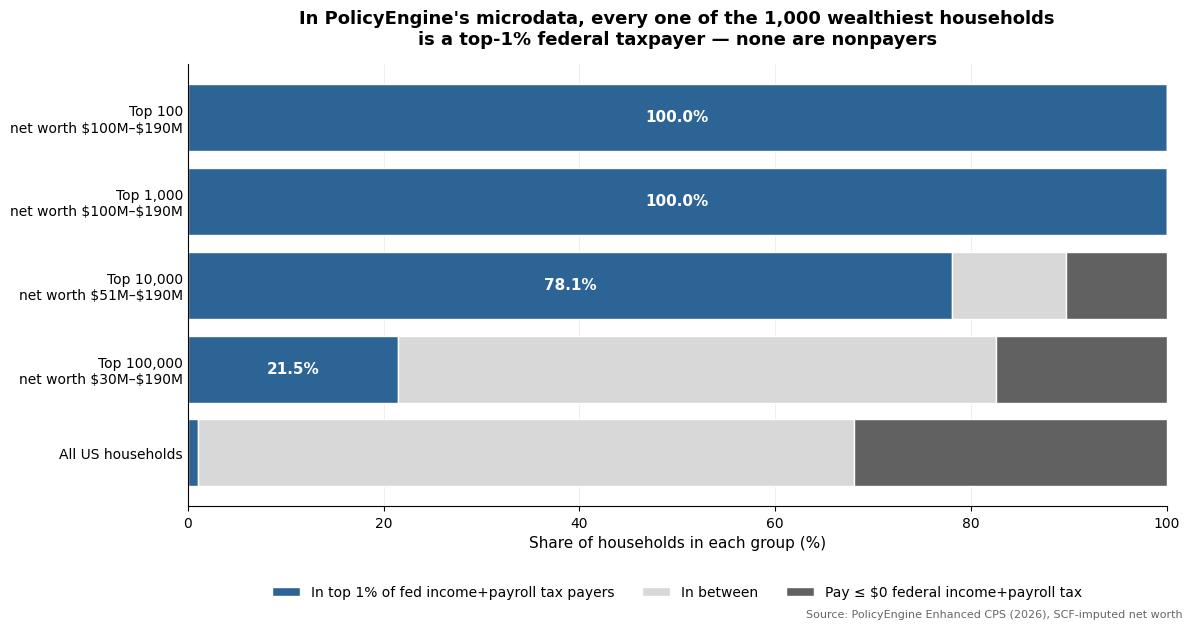
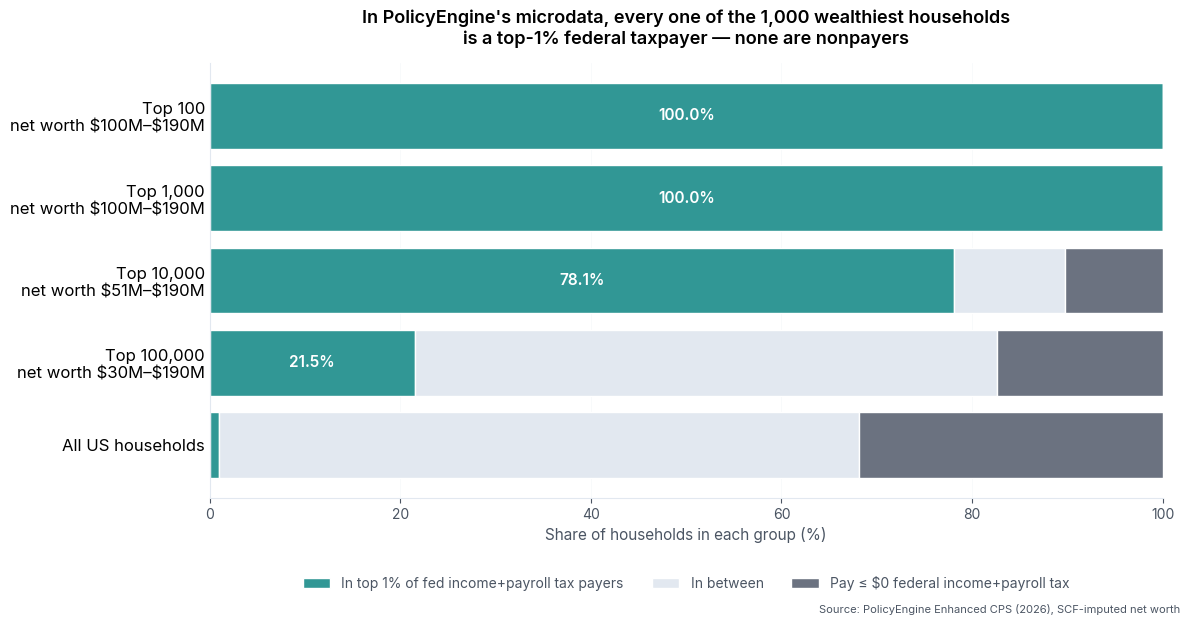
Madoff post: tighten tone, add record counts, use PolicyEngine tokens (#41)
* Madoff post: tighten tone, add record counts, use PolicyEngine tokens

- Rewrite in direct style: drop rhetorical commentary and unbacked modifiers
- Add record-count column to the microdata table; top 100 and top 1,000
  are backed by only 2 underlying records (Enhanced CPS caps at $190M)
- Explain ProPublica's "true tax rate" method (tax / change in net worth)
- Chart: teal chart-1 (#319795), gray-200 border, gray-500 chart-5, Inter
- Link to reproducibility gist

* Madoff post: add Saez-Zucman, Splinter, OMB/CEA, ProPublica follow-ups

Expands 'What the claim should be' into three denominators and cites the
main academic/official estimates: ProPublica 3.4%, OMB/CEA 8.2%, and
Saez-Zucman 24% vs Splinter 38%. Adds links to the Secret IRS Files
series and ProPublica's top-400 interactive table.

* Madoff post: add person-year estimate, tighten tone further

Adds a Claude-estimated person-year zero rate (~5-10%) for the top 100
wealthiest, contrasted with the ~40% population-wide nonpayer rate. Flags
explicitly where the number comes from a Claude estimate vs. public data.

---------

diff --git a/src/content/blog/madoff-billionaire-nonpayers.md b/src/content/blog/madoff-billionaire-nonpayers.md
@@ -1,46 +1,62 @@
 ---
 title: "Billionaires aren't 'just as likely' to be nonpayers as top taxpayers"
-description: "Ray Madoff's memorable line on The Ezra Klein Show overstates what ProPublica actually found."
+description: "Checking Ray Madoff's claim on The Ezra Klein Show against ProPublica, PolicyEngine microdata, and some back-of-envelope estimates."
 pubDate: 'Apr 20 2026'
 heroImage: './madoff-billionaire-nonpayers.png'
 ---
 
-On this week's [Ezra Klein Show](https://www.nytimes.com/2026/04/17/opinion/ezra-klein-podcast-ray-madoff.html), Boston College tax law professor Ray Madoff landed a memorable line:
+On this week's [Ezra Klein Show](https://www.nytimes.com/2026/04/17/opinion/ezra-klein-podcast-ray-madoff.html), Boston College tax law professor Ray Madoff said:
 
 > When it comes to the wealthiest Americans — Zuckerberg, Bezos, Musk, Larry Ellison, all the people we hear about so often — they are just as likely to be in the 40 percent of nonpayers as they are in the top 1 percent of payers.
 
-It's a great rhetorical move. But it doesn't match the evidence.
+The data doesn't support this.
 
-The "40 percent of nonpayers" are households with $0 federal income tax liability. The top 1 percent of payers (TY2022) starts at about $663,000 in adjusted gross income, per the [IRS via Tax Foundation](https://taxfoundation.org/data/all/federal/latest-federal-income-tax-data-2025/). Whenever a centibillionaire sells stock, exercises options, or receives dividends, they clear that threshold by three or four orders of magnitude.
+The "40 percent of nonpayers" are households with $0 federal income tax liability. The top 1 percent of payers (TY2022) starts at $663,164 in adjusted gross income, per [IRS data via Tax Foundation](https://taxfoundation.org/data/all/federal/latest-federal-income-tax-data-2025/). When a centibillionaire sells stock, exercises options, or receives dividends, they clear that threshold by three to four orders of magnitude.
 
-Here's what [ProPublica's 2021 investigation](https://www.propublica.org/article/the-secret-irs-files-trove-of-never-before-seen-records-reveal-how-the-wealthiest-avoid-income-tax) actually documented for the four people Madoff named:
+## What ProPublica actually documented
 
-- **Jeff Bezos** paid $0 in 2007 and 2011. Over the 2014–2018 window ProPublica analyzed, he paid $973 million. Since 2020 he has sold $8–10 billion of Amazon stock annually.
-- **Elon Musk** paid $0 in 2018 — then roughly [$11 billion](https://www.cnn.com/2021/12/29/investing/elon-musk-tesla-stock-sales/index.html) in 2021 when he exercised expiring Tesla options, reportedly the largest personal federal income tax bill ever paid.
-- **Mark Zuckerberg**: no zero-tax years surfaced in the leak. His 10b5-1 stock sales produce hundreds of millions in taxable gains most years.
-- **Larry Ellison**: no zero-tax years surfaced either. Oracle pays a dividend, which forces annual taxable income whether he wants it or not.
+[ProPublica's 2021 investigation](https://www.propublica.org/article/the-secret-irs-files-trove-of-never-before-seen-records-reveal-how-the-wealthiest-avoid-income-tax) covered 2014–2018 for the top 25 billionaires. Per-person figures for the four people Madoff named:
 
-So these four are overwhelmingly in the top 1 percent of payers, not the 40 percent of nonpayers. Bezos and Musk each have one or two documented zero years over more than a decade; Zuckerberg and Ellison have none in the public record.
+- **Jeff Bezos** paid $0 in 2007 and 2011, $973 million over 2014–2018. Since 2020 he has sold $8–10 billion of Amazon stock per year.
+- **Elon Musk** paid $0 in 2018 and [$11 billion](https://www.cnn.com/2021/12/29/investing/elon-musk-tesla-stock-sales/index.html) in 2021 when he exercised expiring Tesla options.
+- **Mark Zuckerberg**: no zero-tax years in the leak. His 10b5-1 sales produce hundreds of millions in taxable gains per year.
+- **Larry Ellison**: no zero-tax years in the leak. Oracle's dividend produces taxable income each year.
+
+Two of the four have documented zero years; two have none. In the years with zero liability, income was offset by losses, interest expense, or charitable deductions — not persistent non-filing.
+
+ProPublica also disclosed $0 years for Carl Icahn (2016, 2017 — interest-expense offsets) and George Soros (2016–2018 — fund losses). Both had nine- and ten-figure taxable years in other periods.
+
+**Person-year zero rate — a rough estimate.** I asked Claude to estimate what share of person-years would show $0 federal income tax for the top 100 wealthiest over the past decade. Starting from the ProPublica disclosures (roughly 10–20 documented zero years across 25 people × 12 disclosed years ≈ 5% of person-years), then weighting the less-famous half of the Forbes 400 more heavily (more Icahn/Soros-style loss or deduction years), the estimate comes in around **5–10%**.
+
+The baseline that Madoff's "40% of nonpayers" describes is a different population: retirees, students, and low earners who owe nothing year after year. The wealthy zero years are episodic — a wealthy person with a 10% per-year probability of a zero tax year is not in the same group as a retired household that owes $0 every year.
 
 ## What the microdata says
 
-I also checked this against [PolicyEngine's Enhanced CPS](https://policyengine.github.io/policyengine-us/), which imputes household net worth from the Federal Reserve's Survey of Consumer Finances. Taking the wealthiest households in the 2026 microdata and comparing their federal income+payroll tax against the weighted 99th percentile of all households ($213,112):
+[PolicyEngine's Enhanced CPS](https://policyengine.github.io/policyengine-us/) imputes household net worth from the Federal Reserve's Survey of Consumer Finances. Against the 2026 microdata, the 99th percentile of federal income+payroll tax at the household level is $213,112 (script: [gist](https://gist.github.com/MaxGhenis/3f10cc98b643e0a76e74eae9afe35082)):
 
-| Wealthiest N households | Net-worth range | Share in top 1% of fed-tax payers | Share paying ≤ $0 |
-|---|---|---|---|
-| Top 100 | $100M – $190M | **100.0%** | 0.0% |
-| Top 1,000 | $100M – $190M | **100.0%** | 0.0% |
-| Top 10,000 | $51M – $190M | 78.1% | 10.3% |
-| Top 100,000 | $30M – $190M | 21.5% | 17.4% |
+| Wealthiest N households | Records | Net-worth range | Share in top 1% of fed-tax payers | Share paying ≤ $0 |
+|---|---|---|---|---|
+| Top 100 | 2 | $100.6M – $190.3M | 100.0% | 0.0% |
+| Top 1,000 | 2 | $100.6M – $190.3M | 100.0% | 0.0% |
+| Top 10,000 | 7 | $51.3M – $190.3M | 78.1% | 10.3% |
+| Top 100,000 | 27 | $30.2M – $190.3M | 21.5% | 17.4% |
+| Top 1,000,000 | 135 | $13.4M – $190.3M | 4.3% | 7.1% |
+| All US households | 6,876 | — | 1.0% | 31.9% |
 
-For context, 31.9% of all U.S. households pay $0 or less in federal income+payroll tax. But every single one of the 1,000 wealthiest households PolicyEngine can see — all with net worth above $100 million — is a top-1% federal taxpayer. None are nonpayers.
+"Records" is the number of underlying microdata households contributing to each weighted group. The top 100 and top 1,000 are both drawn from the same 2 records, and Enhanced CPS net worth caps at $190.3M, so Bezos- and Musk-scale wealth isn't represented.
 
-A caveat: the Enhanced CPS only captures net worth up to about $190 million, so true centibillionaires like Bezos and Musk don't show up. But that's Madoff's point cutting the wrong way — the claim was about the *visible* top of the wealth distribution, and in PolicyEngine's microdata, not one of them is a nonpayer.
+Within the $30M–$190M range the microdata can see, 17.4% of the wealthiest 100,000 households pay ≤ $0 in federal income+payroll tax, vs. 31.9% of all US households. Moving further up the wealth ladder, the nonpayer share drops to 0% for the top 1,000.
 
-## Where the claim comes from
+## Other estimates of what the wealthiest pay
 
-Madoff's underlying point still holds. ProPublica's headline finding — a 3.4 percent "true tax rate" for the top 25 billionaires over 2014–2018, measured against wealth growth — is intact. Buy, borrow, die lets them defer indefinitely, and their effective rate *relative to economic gains* is far below what a salaried worker pays.
+The rate you get for the top of the distribution depends on the denominator:
 
-But the income-tax framing she reached for ("40 percent nonpayers, 1 percent top payers") uses a different denominator than the evidence supports. The accurate version is simpler: *when measured against their wealth growth, the richest Americans pay a lower rate than most of the country.* That's defensible. "Just as likely to be nonpayers" is where ProPublica's data stops backing her up.
+- **Tax / reported AGI.** For the Forbes 400, ProPublica's [top-400 interactive table](https://projects.propublica.org/americas-highest-incomes-and-taxes-revealed/) lists individual effective federal income tax rates averaged 2013–2018; most are in the 17–24% range.
+- **Tax / (AGI + untaxed corporate profits).** [Saez, Yagan, Zucman et al. (NBER w34170, 2025)](https://www.nber.org/papers/w34170) put the top 0.0002%'s total federal rate at 24% for 2018–2020, vs. 30% population-wide. [Splinter's reanalysis](https://www.davidsplinter.com/BillionaireTaxRate.pdf) adjusts for multi-return Forbes families and different corporate-tax imputation and gets 38%.
+- **Tax / comprehensive income including unrealized capital gains.** The [OMB/CEA 2021 analysis](https://www.whitehouse.gov/cea/written-materials/2021/09/23/what-is-the-average-federal-individual-income-tax-rate-on-the-wealthiest-americans/) put the top 400 at 8.2%. ProPublica's 3.4% "true tax rate" divides tax paid by change in net worth over the period.
 
-Precision matters because lines like this travel. They get stripped from context and posted as facts. When the fact doesn't hold, it hands the other side an easy rebuttal — right when the underlying critique deserves to be taken seriously.
+None of these studies — including ProPublica's follow-ups in the [Secret IRS Files series](https://www.propublica.org/series/the-secret-irs-files) — report the share of centibillionaire person-years with $0 federal income tax, because per-person year-by-year data isn't public. The question Madoff's claim depends on is structurally harder to answer than the rate question.
+
+## What the claim should be
+
+Taxes paid as a share of wealth accumulation for the richest Americans are lower than for most of the country: 3.4% (ProPublica), 8.2% (OMB/CEA), or 24–38% (Saez-Zucman-Splinter), depending on the denominator. "Just as likely to be nonpayers as top 1% payers" uses income-tax filing brackets as the denominator. By that measure, the ~5–10% estimated person-year zero rate for the top 100 wealthiest is about 1/10 the 40% population-wide rate, and the ~80–90% implied top-1%-payer rate for the same group (my estimate, since the rest of the time they realize enough income to clear $213K in federal tax) is roughly 10× the 1% population rate. The ratio isn't 1:1.
